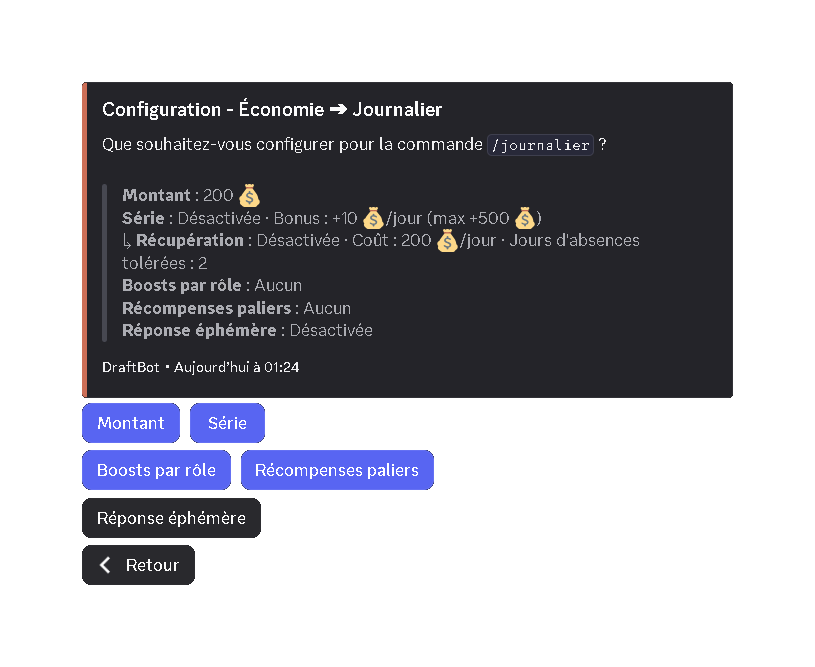
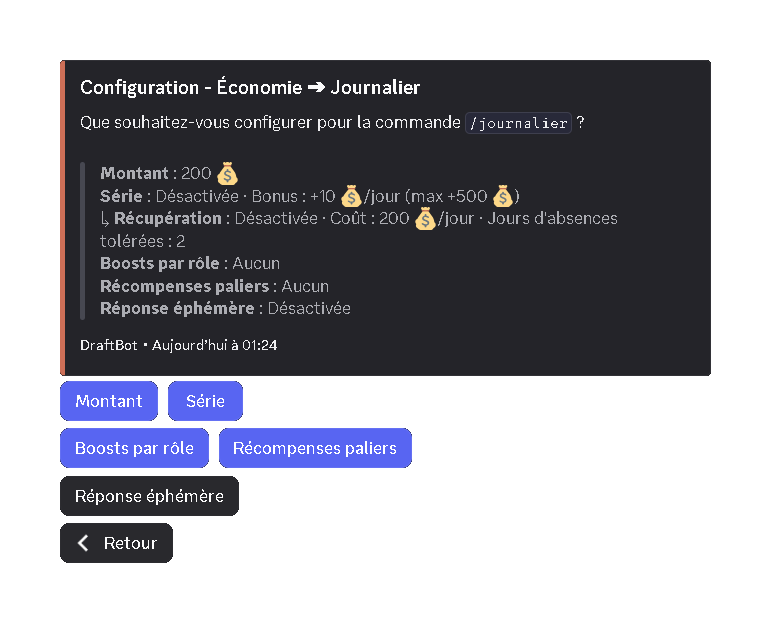
🔄 Replace image: config_daily.png

Changed region(s): [[0.0623, 0.0915, 0.9339, 0.9149]]

diff --git a/docs/3.engagement/1.economie.md b/docs/3.engagement/1.economie.md
@@ -311,6 +311,9 @@ Les récompenses journalières sont un excellent moyen de récompenser vos membr
   ::
 
   ::tab{ label="Via la commande /config" }
+
+    ![Configuration via la commande /config](../assets/economie/config_daily.png)
+
     Via la commande \</config>, accédez au menu "Économie" puis "Journalier". Vous pourrez alors configurer votre système de journalier.
   ::
 ::
@@ -325,6 +328,9 @@ Les récompenses journalières sont un excellent moyen de récompenser vos membr
   ::
 
   ::tab{ label="Via la commande /config" }
+
+    ![Configuration via la commande /config](../assets/economie/config_daily.png)
+
     Via la commande \</config>, accédez au menu "Économie" puis "Journalier". Vous pourrez alors configurer votre système de journalier.
   ::
 ::
@@ -355,6 +361,9 @@ Les récompenses journalières sont un excellent moyen de récompenser vos membr
   ::
 
   ::tab{ label="Via la commande /config" }
+
+    ![Configuration via la commande /config](../assets/economie/config_daily.png)
+
     Via la commande \</config>, accédez au menu "Économie" puis "Journalier". Vous pourrez alors configurer votre système de journalier.
   ::
 ::
